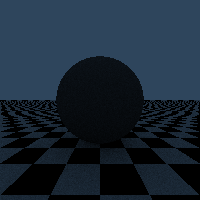
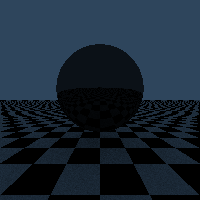
Added reflectance.

diff --git a/rayTracingTest/src/Renderer.cpp b/rayTracingTest/src/Renderer.cpp
@@ -75,6 +75,7 @@ Vector3D Renderer::tracePath(Ray& ray, Scene& scene, unsigned int depth, unsigne
 		return Vector3D{ 0, 0, 0 };
 	}
 
+	Vector3D output{ 0, 0, 0 };
 	double dist{ maxDist };
 	std::unique_ptr<Object>* obj{ nullptr };
 	obj = Object::nearestObject(scene.getObjects(), dist, ray);  // nearest object in ray's path
@@ -82,14 +83,28 @@ Vector3D Renderer::tracePath(Ray& ray, Scene& scene, unsigned int depth, unsigne
 		return Vector3D{ 0, 0, 0 };
 	}
 	Vector3D intersection{ ray.position + ray.direction * dist };  // point of intersection
-	double theta = theta_d(mt_engine);
-	double z = z_d(mt_engine);
-	double rad = sqrt(1 - z * z);
-	Vector3D randomDir{ rad * cos(theta * M_PI), rad * sin(theta * M_PI), z };
-	Ray ray2{ intersection + (*obj)->getNormal(intersection, ray) * 1e-12, randomDir };  // make the direction random
+	Vector3D normal{ (*obj)->getNormal(intersection, ray) };
+	Vector3D shiftedPoint{ intersection + normal * 1e-12 };
+	Vector3D direction{ 0, 1, 0 };
+	const double theta{ theta_d(mt_engine) };
+	const double z{ z_d(mt_engine) };
+	const double rad{ sqrt(1 - z * z) };
+	const double reflectance{ (*obj)->getMaterial()->getReflection(intersection) };  // used to determine how much of a reflected image should be on top of the object; basically a glossy finish on top
+	const double shininess{ (*obj)->getMaterial()->getShininess(intersection) };  // used to determine how much the light is reflected by (0 = random direction; perfectly diffuse, 1 = mirror; perfectly reflective);
 
+	if (reflectance > 0) {
+		Vector3D reflectionDirection{ Object::reflected(ray.direction, normal) };
+		Ray reflected{ shiftedPoint, reflectionDirection };
+		output = output + tracePath(reflected, scene, depth + 1, maxReflects) * reflectance;
+	}
+
+	direction = Vector3D{ rad * cos(theta * M_PI), rad * sin(theta * M_PI), z };  // make the direction random
+
+	Ray outgoingRay{ shiftedPoint, direction };  
+	
 	// ambient is color and specular is emmitance
-	return (*obj)->getMaterial()->getSpecular(intersection) + tracePath(ray2, scene, depth + 1, maxReflects).multiply((*obj)->getMaterial()->getAmbient(intersection));
+	output = output + (*obj)->getMaterial()->getSpecular(intersection) + tracePath(outgoingRay, scene, depth + 1, maxReflects).multiply((*obj)->getMaterial()->getAmbient(intersection));
+	return output;
 }
 
 Vector3D Renderer::refract(double n1, double n2, const Vector3D& normal, const Vector3D& incident) {

diff --git a/rayTracingTest/src/main.cpp b/rayTracingTest/src/main.cpp
@@ -69,7 +69,7 @@ int main() {
 
 	Scene pathTracing{ std::make_unique<Camera>(Vector3D{ 0, 2, 0 }, Vector3D{ 0, 0, 0 }, ratio, 1.0) };
 	//pathTracing.addObject(std::make_unique<Sphere>(2, Vector3D{ 0, 2, 5 }, std::make_unique<Material>(Vector3D{ 0, 0, 0 }, Vector3D{ 0, 0, 0 }, Vector3D{ 1, 1, 1 })));  // glowing object
-	pathTracing.addObject(std::make_unique<Sphere>(2, Vector3D{ 0, 2, 5 }, std::make_unique<Material>(Vector3D{ 0.5, 0.5, 0.5 }, Vector3D{ 0, 0, 0 }, Vector3D{ 0, 0, 0 })));  // sphere
+	pathTracing.addObject(std::make_unique<Sphere>(2, Vector3D{ 0, 2.5, 5 }, std::make_unique<Material>(Vector3D{ 0.0, 0.0, 0.0 }, Vector3D{ 0, 0, 0 }, Vector3D{ 0, 0, 0 }, 0.0, 0.25)));  // sphere
 	pathTracing.addObject(std::make_unique<Plane>(Vector3D{ 0, 1000, 0 }, Vector3D{ 0, -1, 0 }, std::make_unique<Checkerboard>(Vector3D{ 0, 0, 0 }, Vector3D{ 0, 0, 0 }, Vector3D{ 0.18, 0.27, 0.36 }, 0.0, 0.0, 3)));  // sky
 	pathTracing.addObject(std::make_unique<Plane>(Vector3D{ 0, 0, 0 }, Vector3D{ 0, 1, 0 }, std::make_unique<Checkerboard>(Vector3D{ 0.9, 0.9, 0.9 }, Vector3D{ 0, 0, 0 }, Vector3D{ 0, 0, 0 }, 0.0, 0.0, 3)));  // floor
 
